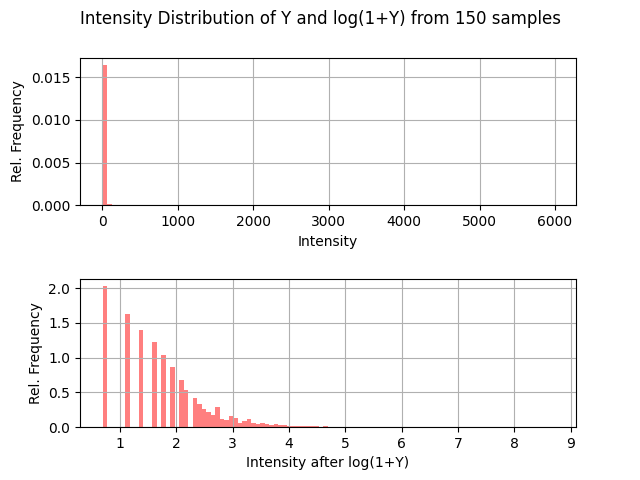
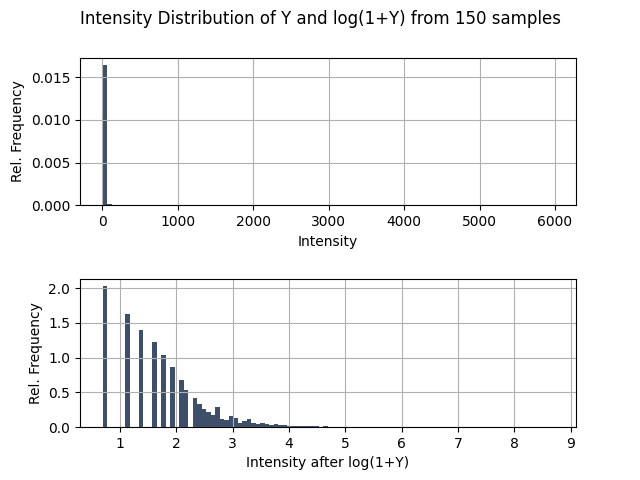
Add Presentation/ directory

Changed region(s): [[0.1562, 0.5938, 0.4375, 0.9062], [0.1562, 0.125, 0.1875, 0.4375]]

diff --git a/Presentation/Normalization.py b/Presentation/Normalization.py
@@ -14,13 +14,13 @@ fig, (ax1, ax2) = plt.subplots(2)
 fig.suptitle('Intensity Distribution of Y and log(1+Y) from 150 samples')
 fig.subplots_adjust(hspace=0.5)
 
-ax1.hist(Y, bins=100, label='Relative Frequency from 150 samples', density=True, color='red', alpha=0.5)
+ax1.hist(Y, bins=100, label='Relative Frequency from 150 samples', density=True, color=(0.04706, 0.13725, 0.26667), alpha=0.8)
 ax1.set_xlabel('Intensity')
 ax1.set_ylabel('Rel. Frequency')
 ax1.grid(True)
 #ax1.legend()
 
-ax2.hist(Y_log, bins=100, label='Relative Frequency from 150 samples', density=True, color='red', alpha=0.5)
+ax2.hist(Y_log, bins=100, label='Relative Frequency from 150 samples', density=True, color=(0.04706, 0.13725, 0.26667), alpha=0.8)
 ax2.set_xlabel('Intensity after log(1+Y)')
 ax2.set_ylabel('Rel. Frequency')
 ax2.grid(True)
